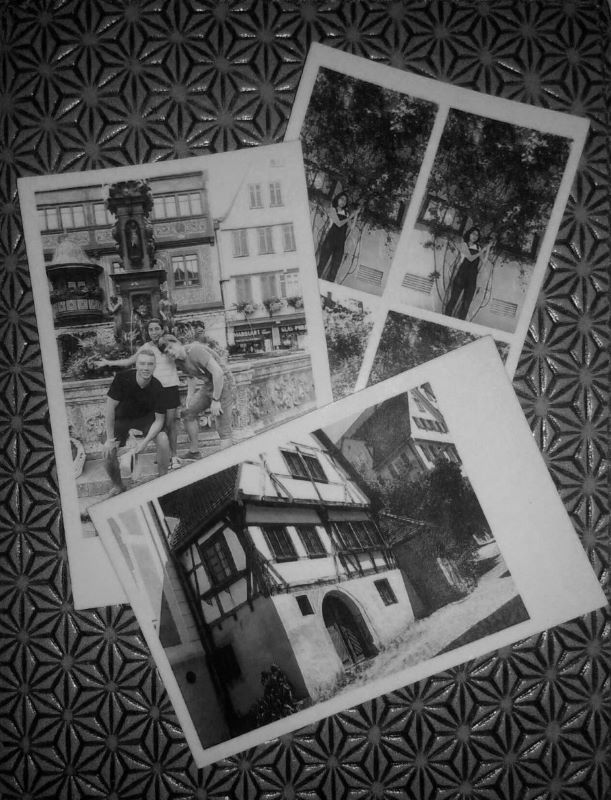
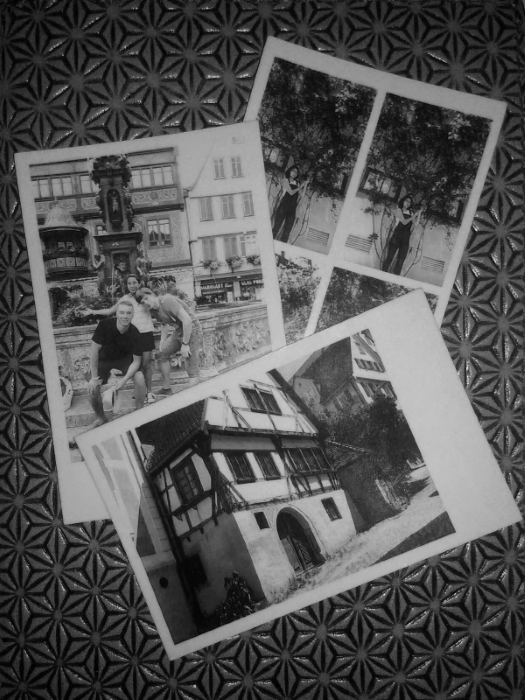
Fix picture dimensions

diff --git a/_posts/2011-03-10-tubingen-post.md b/_posts/2011-03-10-tubingen-post.md
@@ -1,7 +1,7 @@
 ---
 layout: post
 title: "Próxima parada: Tübingen"
-excerpt: "Próxima parada: Tübingen"
+excerpt: 
 modified: 2020-04-09
 tags: 
 comments: true
